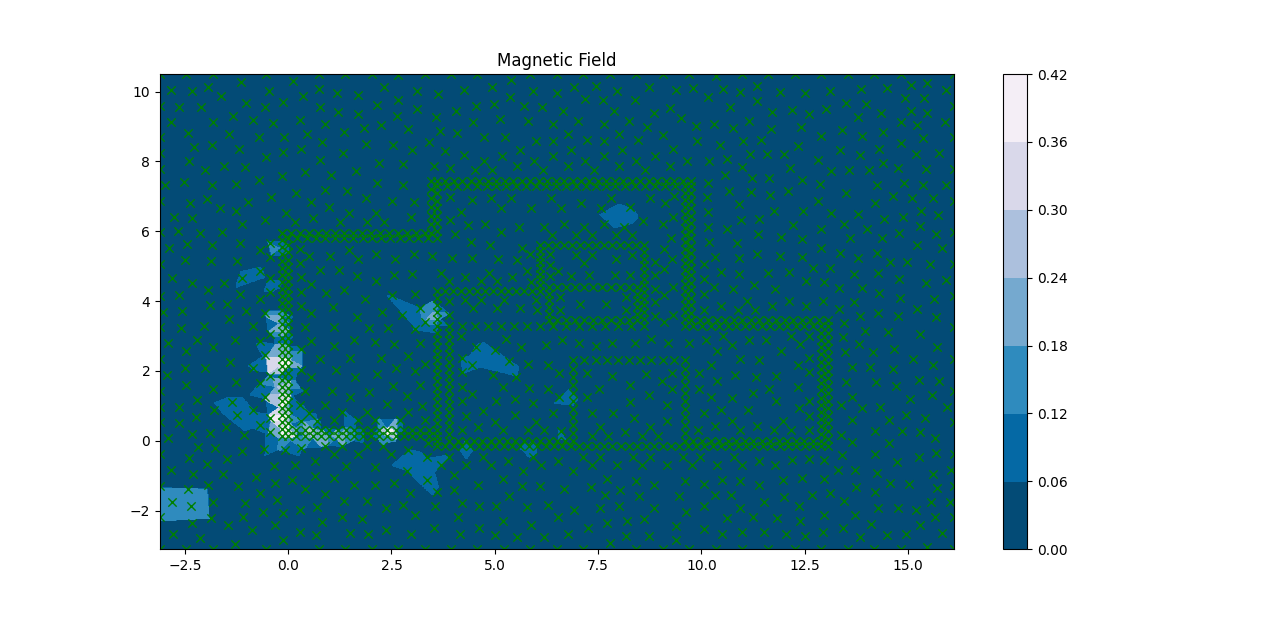
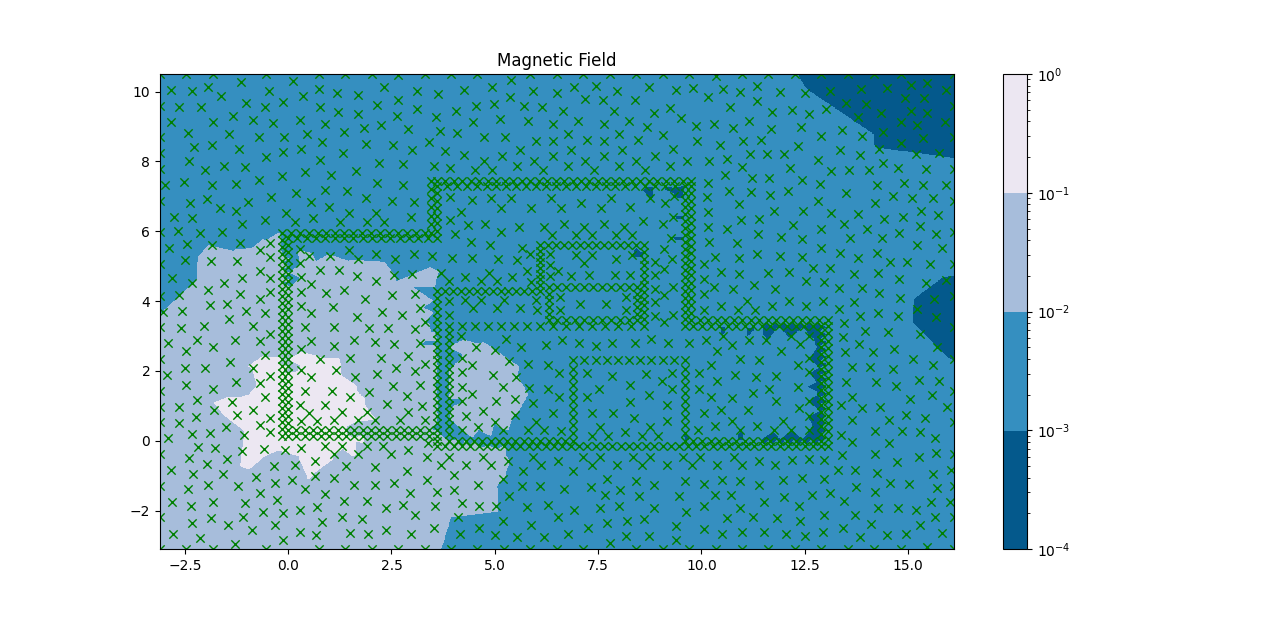
Version 1.3.0
Substantial revisions/optimizations to code, most notably in how the linear system of equations generated by the finite element method is set up and solved.

diff --git a/ssWFS.py b/ssWFS.py
@@ -9,8 +9,8 @@ field over the domain of my house using the linear finite element method. Sectio
 Section 12.5 of Burden and Faires, and Chapter 8 of Reddy were the three main resources consulted in the construction
 of this program.
 
-February 14, 2020
-v1.2.1
+February 16, 2020
+v1.3.0
 """
 
 import numpy as np
@@ -18,7 +18,7 @@ import triangle
 from scipy.integrate import nquad, simpson
 from scipy.interpolate import griddata
 from scipy.sparse import csr_matrix
-from scipy.sparse.linalg import gmres
+from scipy.sparse.linalg import spsolve, gmres
 import matplotlib.pyplot as plt
 from matplotlib import ticker
 from shapely.geometry import Point, Polygon
@@ -33,7 +33,9 @@ def triangulationFEM(gp):
     Return:
     tri_FEM_R: Delaunay FEM triangulation after one refinement
     """
-    tri_dict = dict(vertices=gp)
+    grid_dict = {hash((p[0], p[1])): p for p in gp }
+    grid_points = np.array(list(grid_dict.values()))
+    tri_dict = dict(vertices=grid_points)
     tri_FEM = triangle.triangulate(tri_dict, 'qD')#Initial triangulation 
     tri_FEM_R = triangle.triangulate(tri_FEM, 'ra0.2')#Refinement
     del tri_dict
@@ -222,11 +224,13 @@ def calcTriangleIntegrals(linear_polynomials, tri_bois, grid_points, eps_r_arr, 
     for i in np.arange(N):
         x_0,y_0,x_1,y_1,x_2,y_2 = extractVertexCoordinates(tri_bois[i], grid_points)
         Area_triangle = 0.5*np.linalg.det(np.array([[x_0,y_0,1],[x_1,y_1,1],[x_2,y_2,1]]))
+
+        #Change coordinates so double integral is over the triangle with verticies (0,0),(1,0),(0,1)
+        J_abs = np.abs((x_1 - x_0)*(y_2 - y_0) - (x_2 - x_0)*(y_1 - y_0))#Absolute value of determinant of Jacobian matrix
+
+
         for j in np.arange(3):
             a_j_i,b_j_i,c_j_i = extractTriangleCoefs(linear_polynomials[i][j])
-
-            #Change coordinates so double integral is over the triangle with verticies (0,0),(1,0),(0,1)
-            J_abs = np.abs((x_1 - x_0)*(y_2 - y_0) - (x_2 - x_0)*(y_1 - y_0))#Absolute value of determinant of Jacobian matrix
 
             #Evaluate linear polynomial times the source term f at a point (u,v)
             def f(u,v):
@@ -297,7 +301,7 @@ def calcLineIntegrals(tri_bois, linear_polynomials, gp, node_markers):
                   node i is on the boundary, and is 0 otherwise
 
     Return:
-    J_ints: N x 3 x 3 array of values of line integrals
+    J_ints: N x 3 x 3 array of values of line integrals along boundary of triangular elements
     """
     N = linear_polynomials.shape[0]
     J_ints = np.zeros((N,3,3))
@@ -309,36 +313,41 @@ def calcLineIntegrals(tri_bois, linear_polynomials, gp, node_markers):
                     a_j_i,b_j_i,c_j_i = extractTriangleCoefs(linear_polynomials[i][j])
                     a_k_i,b_k_i,c_k_i = extractTriangleCoefs(linear_polynomials[i][k])
 
-                    #Evaluate composition product of two linear polynomials at a point (x,y) with the parametrization of the rectangle that is the boundary of the simulation region
-                    def h_2(t, x_0, x_1, y_0, y_1):
-                        x_t = x_0*(1.0 - t) + x_1*t
-                        y_t = y_0*(1.0 - t) + y_1*t
-                        val = (a_j_i*a_k_i) + (a_j_i*b_k_i + a_k_i*b_j_i)*x_t + (a_j_i*c_k_i + a_k_i*c_j_i)*y_t
-                        val = val + (b_j_i*b_k_i)*np.power(x_t,2) + (b_j_i*c_k_i + c_j_i*b_k_i)*x_t*y_t + (c_j_i*c_k_i)*np.power(y_t,2)
-                        return val
-
                     #Compute line integrals along boundary of each triangular element using Simpson's rule
                     x_0,y_0,x_1,y_1,x_2,y_2 = extractVertexCoordinates(tri_bois[i], gp) 
                     bd_pts = np.array([[x_0,x_1,y_0,y_1], [x_1,x_2,y_1,y_2], [x_2,x_0,y_2,y_0,]])
                     line_integral_J = 0.0
                     #Evaluate line integral along rectangular boundary by adding the 3 line integrals along each side of the triangular element
                     for p in bd_pts:
+                        x_0 = p[0]
+                        x_1 = p[1]
+                        x_2 = p[2]
+                        x_3 = p[3]
                         norm_gamma_prime = np.sqrt((p[1] - p[0])**2 + (p[3] - p[2])**2)
                         t_pts = np.linspace(0.0,1.0,num=37, endpoint=True)
-                        h_pts = norm_gamma_prime*h_2(t_pts, p[0], p[1], p[2], p[3])
+
+                        #Evaluate composition product of two linear polynomials at a point (x,y) with the parametrization of the triangular element
+                        x_t = x_0*(1.0 - t_pts) + x_1*t_pts
+                        y_t = y_0*(1.0 - t_pts) + y_1*t_pts
+                        h2 = (a_j_i*a_k_i) + (a_j_i*b_k_i + a_k_i*b_j_i)*x_t + (a_j_i*c_k_i + a_k_i*c_j_i)*y_t
+                        h2 = h2 + (b_j_i*b_k_i)*np.power(x_t,2) + (b_j_i*c_k_i + c_j_i*b_k_i)*x_t*y_t + (c_j_i*c_k_i)*np.power(y_t,2)
+                        
+                        #Evaluate line integral
+                        h_pts = norm_gamma_prime*h2
                         line_integral_J = line_integral_J + simpson(h_pts, t_pts, even='first')
                         
                     J_ints[i][j][k] = line_integral_J
     return J_ints
 
-def solveFEMSystemElectric(z_arr, H_arr, tri_bois, grid_points, node_markers):
+def solveFEMSystemElectric(z_arr, H_arr, J_arr, tri_bois, grid_points, node_markers):
     """
     Function to solve the system of equation that results from  the linear FEM method for
     the electric field in phasor form
 
     Parameters:
-    z_arr: N x 3 x 3 Numpy array of values of inner product integrals over each triangular element
-    H_arr: N x 3 Numpy array of values of inner product integrals involving inhomogeneous term
+    z_arr: N x 3 x 3 Numpy array of values of double integrals over each triangular element
+    H_arr: N x 3 Numpy array of values of double integrals involving inhomogeneous term over each triangle
+    J_arr: N x 3 x 3 Numpy array of values of line lintegrals along the boundary of each triangle
     tri_bois: N x 6 array of xy-coordinates of verticies of each triangle
     grid_points: Array of arrays of length 2 represrnting xy-coordinates of verticies
     node_markers: Array of arrays indicating whether or not a node lies on the boundary
@@ -349,61 +358,54 @@ def solveFEMSystemElectric(z_arr, H_arr, tri_bois, grid_points, node_markers):
     """
     N = tri_bois.shape[0]
     M = grid_points.shape[0]
-    int_points_idx = []#Original grid indices of the interior points
+    int_points_dict = {}#Original grid indices of the interior points
+    L = 0
     for ii in np.arange(M):
         if node_markers[ii] == 0:
-            int_points_idx.append(ii)
-    int_points = np.array(int_points_idx, dtype=int)
-    L = len(int_points)#Linear system is for the coefficients corresponding to the interior points
+            int_points_dict.update({ii:L})#ii, the global index, is the key, and L, the interior index, is its value
+            L = L + 1#Increment L
     #Store sparse matrix in (i,j,V) format
     i_A = []
     j_A = []
     V_A = []
     b = np.zeros(L)
-    int_triangle_idx = []#Indices, in FEM_triangles, of the triangles with interior points only as verticies
-    for ii in np.arange(N):
-        if not (node_markers[tri_bois[ii][0]] == 1 or node_markers[tri_bois[ii][1]] == 1 or node_markers[tri_bois[ii][2]] == 1):
-            int_triangle_idx.append(ii)
 
-    int_triangles = np.array(int_triangle_idx, dtype=int)
     #Assemble integrals over interior triangular elements into linear system
-    for i in np.arange(len(int_triangles)):
-        original_tri_idx = int_triangles[i]#Original index of triangle in FEM_triangles
-        original_node_idx = np.array([tri_bois[original_tri_idx][0],tri_bois[original_tri_idx][1],tri_bois[original_tri_idx][2]])#Original node indices
-        for k in np.arange(3):
-            l = original_node_idx[k]
-            if k > 0:
-                for j in np.arange(k):
-                    t = original_node_idx[j]
-                    if l in int_points:#Node l is an interior point
-                        l_int = int(np.where(int_points == l)[0])#Interior node index
-                        if t in int_points:#Node t is an interior point
-                            t_int = int(np.where(int_points == t)[0])#Interior node index
-                            i_A.append(l_int)
-                            j_A.append(t_int)
-                            V_A.append(z_arr[original_tri_idx][k][j])
-                            i_A.append(t_int)#Matrix is symmetric
-                            j_A.append(l_int)
-                            V_A.append(z_arr[original_tri_idx][k][j])
-            if l in int_points:
-                l_int = int(np.where(int_points == l)[0])
-                i_A.append(l_int)
-                j_A.append(l_int)
-                V_A.append(z_arr[original_tri_idx][k][k])
-                b[l_int] = b[l_int] + H_arr[i][k]
-
+    for i in np.arange(N):
+        if (tri_bois[i][0] in int_points_dict) or (tri_bois[i][1] in int_points_dict) or (tri_bois[i][2] in int_points_dict):#If at least one vertex is in the interior
+            original_node_idx = np.array([tri_bois[i][0],tri_bois[i][1],tri_bois[i][2]])#Original node indices
+            for k in np.arange(3):
+                l = original_node_idx[k]
+                if l in int_points_dict:
+                    l_int = int_points_dict.get(l)
+                    if k > 0:
+                        for j in np.arange(k):
+                            t = original_node_idx[j]
+                            if t in int_points_dict:
+                                t_int = int_points_dict.get(t)#Interior node index
+                                i_A.append(l_int)
+                                j_A.append(t_int)
+                                V_A.append(z_arr[i][k][j] + J_arr[i][k][j])
+                                i_A.append(t_int)#Matrix is symmetric
+                                j_A.append(l_int)
+                                V_A.append(z_arr[i][k][j] + J_arr[i][k][j])
+                    i_A.append(l_int)
+                    j_A.append(l_int)
+                    V_A.append(z_arr[i][k][k] + J_arr[i][k][k])
+                    b[l_int] = b[l_int] + H_arr[i][k]
     #Solve the sparse linear system 
     sp_A = csr_matrix((np.array(V_A), (np.array(i_A, dtype=int), np.array(j_A, dtype=int))), shape=(L,L))
     del i_A#Free memory
     del j_A
     del V_A
-    print("Start Iterative Solution")
-    x_sol_interior, int_info = gmres(sp_A, b, tol=1e-7)
-    print("End Iterative Solution")
+    m_d = sp_A.diagonal()
+    print("Solving Electric System")
+    x_sol_interior = spsolve(sp_A, b)
+    print("End solve electric system")
     x_E = np.zeros(M)#Build overall solution vector
     for ii in np.arange(M):
-        if node_markers[ii] == 0:#Interior point
-            int_idx = int(np.where(int_points == ii)[0])#Interior index
+        if ii in int_points_dict:#Interior point
+            int_idx = int_points_dict.get(ii)#Interior index
             x_E[ii] = x_sol_interior[int_idx]
         else:#Boundary point
             x_E[ii] = 0.0
@@ -454,13 +456,11 @@ def solveFEMSystemMagnetic(z_arr, H_arr, J_arr, tri_bois, grid_points, node_mark
             b[l] = b[l] + H_arr[i][k]
 
     #Solve the sparse linear system 
-    print("Start Iterative Solution")
     sp_A = csr_matrix((np.array(V_A), (np.array(i_A, dtype=int), np.array(j_A, dtype=int))), shape=(M,M))
     del i_A#Free memory
     del j_A
     del V_A
-    print("End Interative Solution")
-    x_B, B_info = gmres(sp_A, b, tol=1e-7)
+    x_B = spsolve(sp_A, b)
     return x_B
 
 def graphFEMSol(grid_points, tri_bois, E_coefs_24, E_coefs_5, B_coefs_24, B_coefs_5, eps_arr, linear_poly):
@@ -511,6 +511,7 @@ def graphFEMSol(grid_points, tri_bois, E_coefs_24, E_coefs_5, B_coefs_24, B_coef
 
     #Power density
     power_density = np.power(E_phasor_24 + E_phasor_5,2)/(2.0*np.sqrt(u_0/eps_arr))
+    print(power_density)
     del E_phasor_24
     del E_phasor_5
     xi = np.linspace(-3.1, 16.1, 1000)
@@ -530,7 +531,7 @@ def graphFEMSol(grid_points, tri_bois, E_coefs_24, E_coefs_5, B_coefs_24, B_coef
     del B_phasor_5
     fig2, ax2 = plt.subplots()
     Z_B = griddata((x_vals, y_vals), B_phasor, (X, Y), method='nearest')
-    cs2 = ax2.contourf(X, Y, Z_B, cmap = 'PuBu_r')#Plot interpolated power density data
+    cs2 = ax2.contourf(X, Y, Z_B, locator=ticker.LogLocator(), cmap = 'PuBu_r')#Plot interpolated power density data
     cbar2 = fig2.colorbar(cs2)
     ax2.scatter(grid_points[:,0],grid_points[:,1], marker='x', linewidths=1, c='g')#Plot grid points for reference
     ax2.set_title("Magnetic Field")
@@ -543,22 +544,22 @@ def main():
     t_FEM1, lr_inner, lr_outer, br, ovr_boundary = generateFEM()
     FEM_triangles = np.array(t_FEM1['triangles'].tolist())
     nodes = np.array(t_FEM1['vertices'].tolist())
-    print(len(nodes))
     node_markers = np.array(t_FEM1['vertex_markers'].tolist()).flatten()#Marker is 1 if node is on the boundary, 0 otherwise
     eps_r_arr = calcPermitivitty(nodes, lr_inner, lr_outer, br, ovr_boundary)#Calculate permitivitty at each node
     linear_polynomials = generateLinearPolynomials(FEM_triangles, nodes, node_markers)#Calculate linear polynomials
+
     #Solve using FEM aout each frequency spike, then combine the two solutions using superposition - this is a linear PDE with linear BCs
     #Solve at 2.4GHz
     omega_24 = 2*PI*2.4e9
     z_arr_24, H_arr_24 = calcTriangleIntegrals(linear_polynomials, FEM_triangles, nodes, eps_r_arr, omega_24)#Calculate triangle integrals
     J_arr = calcLineIntegrals(FEM_triangles, linear_polynomials, nodes, node_markers)#Calculate line integrals, not dependent on frequency
-    E_coefs_24 = solveFEMSystemElectric(z_arr_24, H_arr_24, FEM_triangles, nodes, node_markers)#Solve for electric field coefficients
+    E_coefs_24 = solveFEMSystemElectric(z_arr_24, H_arr_24, J_arr, FEM_triangles, nodes, node_markers)#Solve for electric field coefficients
     B_coefs_24 = solveFEMSystemMagnetic(z_arr_24, H_arr_24, J_arr, FEM_triangles, nodes, node_markers)#Solve for magnetic field coefficients
 
     #Solve at 5.0GHz
     omega_5 = 2*PI*5.0e9
     z_arr_5, H_arr_5 = calcTriangleIntegrals(linear_polynomials, FEM_triangles, nodes, eps_r_arr, omega_5)#Calculate triangle integrals
-    E_coefs_5 = solveFEMSystemElectric(z_arr_5, H_arr_5, FEM_triangles, nodes, node_markers)#Solve for electric field coefficients
+    E_coefs_5 = solveFEMSystemElectric(z_arr_5, H_arr_5, J_arr, FEM_triangles, nodes, node_markers)#Solve for electric field coefficients
     B_coefs_5 = solveFEMSystemMagnetic(z_arr_5, H_arr_5, J_arr, FEM_triangles, nodes, node_markers)#Solve for magnetic field coefficients
 
     #Plor Results of Simulation
